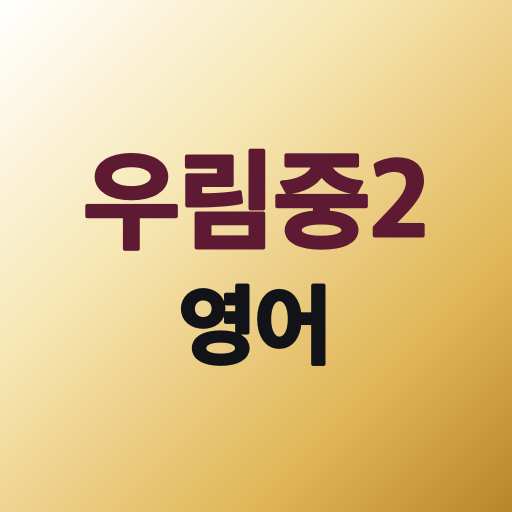
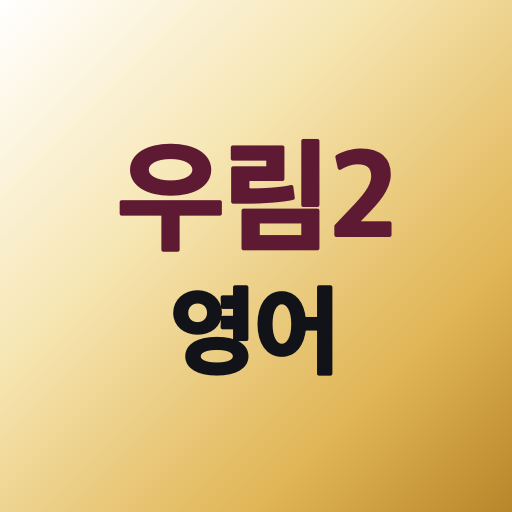
아이콘·홈 화면 이름 줄임(학교 2자+학년)

Changed region(s): [[0.1562, 0.25, 0.8438, 0.5], [0.3125, 0.5312, 0.6562, 0.75]]

diff --git a/index.html b/index.html
@@ -122,7 +122,7 @@ body:not(.nobrand) #submit::before{content:"";display:inline-block;width:1.35em;
 <link rel="apple-touch-icon" href="/apple-touch-icon.png?v=e1">
 <meta name="apple-mobile-web-app-capable" content="yes">
 <meta name="mobile-web-app-capable" content="yes">
-<meta name="apple-mobile-web-app-title" content="우림중2">
+<meta name="apple-mobile-web-app-title" content="우림2">
 <meta name="apple-mobile-web-app-status-bar-style" content="default">
 <meta name="theme-color" content="#f5f5f2" media="(prefers-color-scheme: light)">
 <meta name="theme-color" content="#141416" media="(prefers-color-scheme: dark)">
